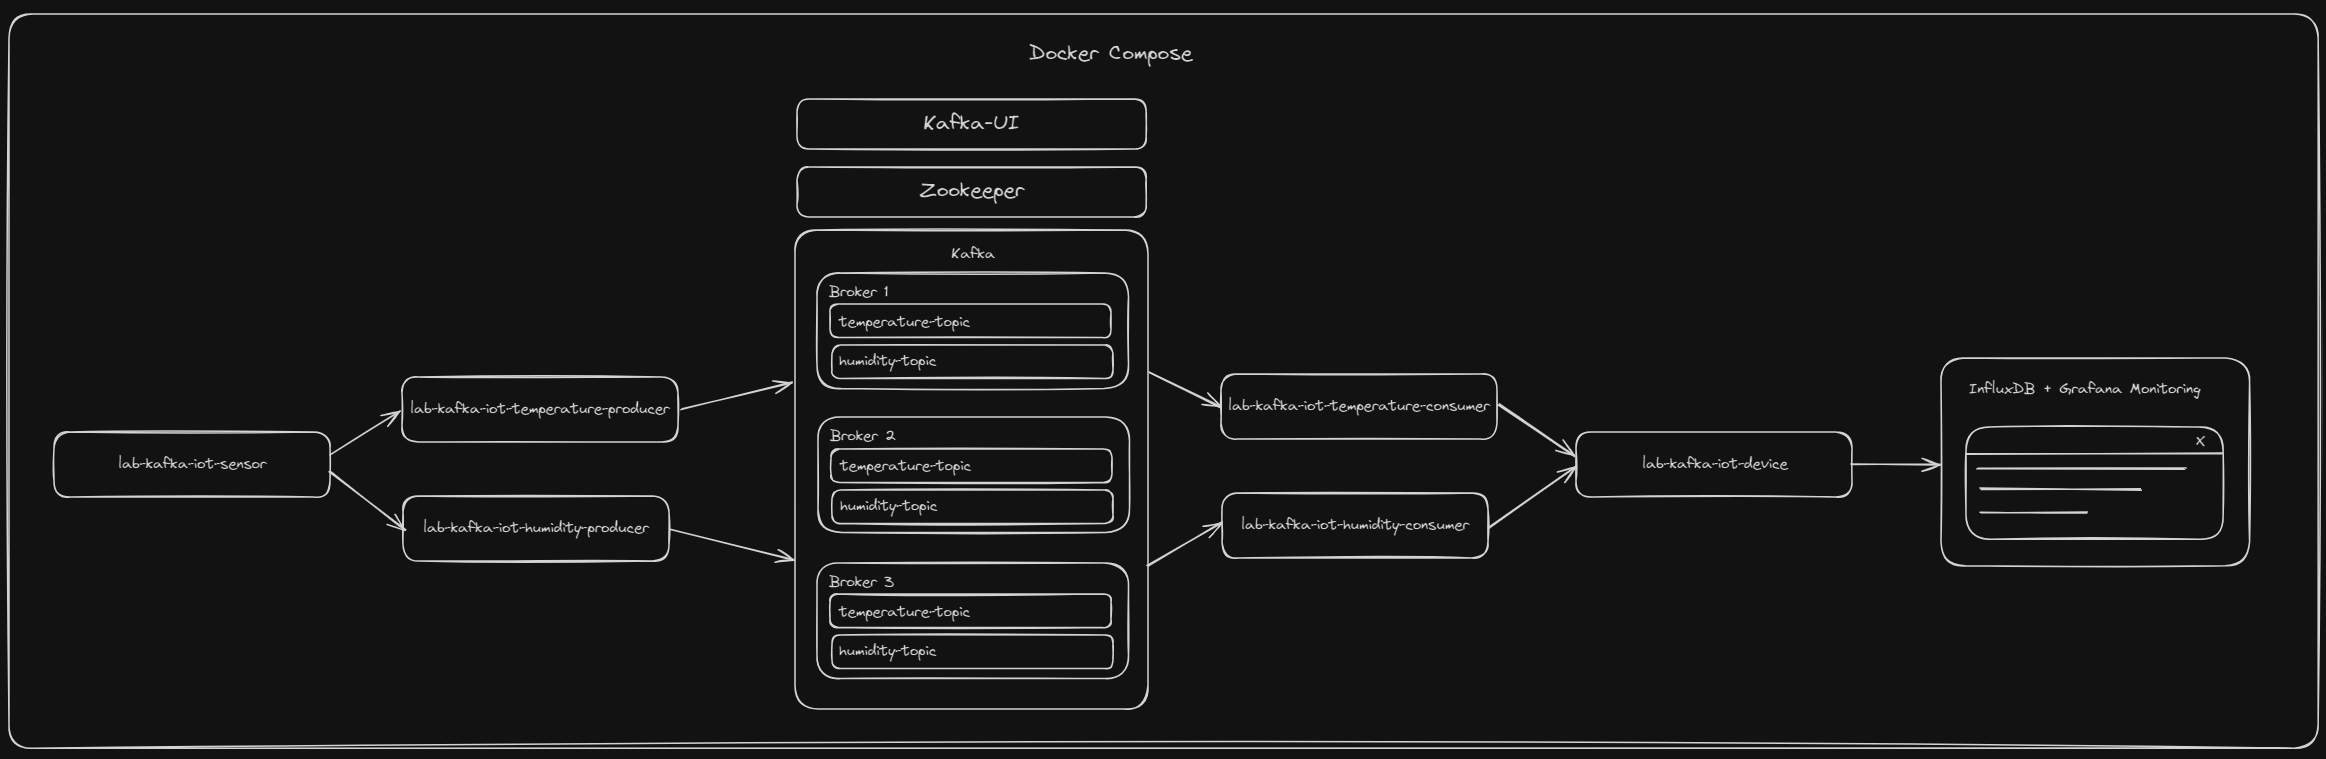
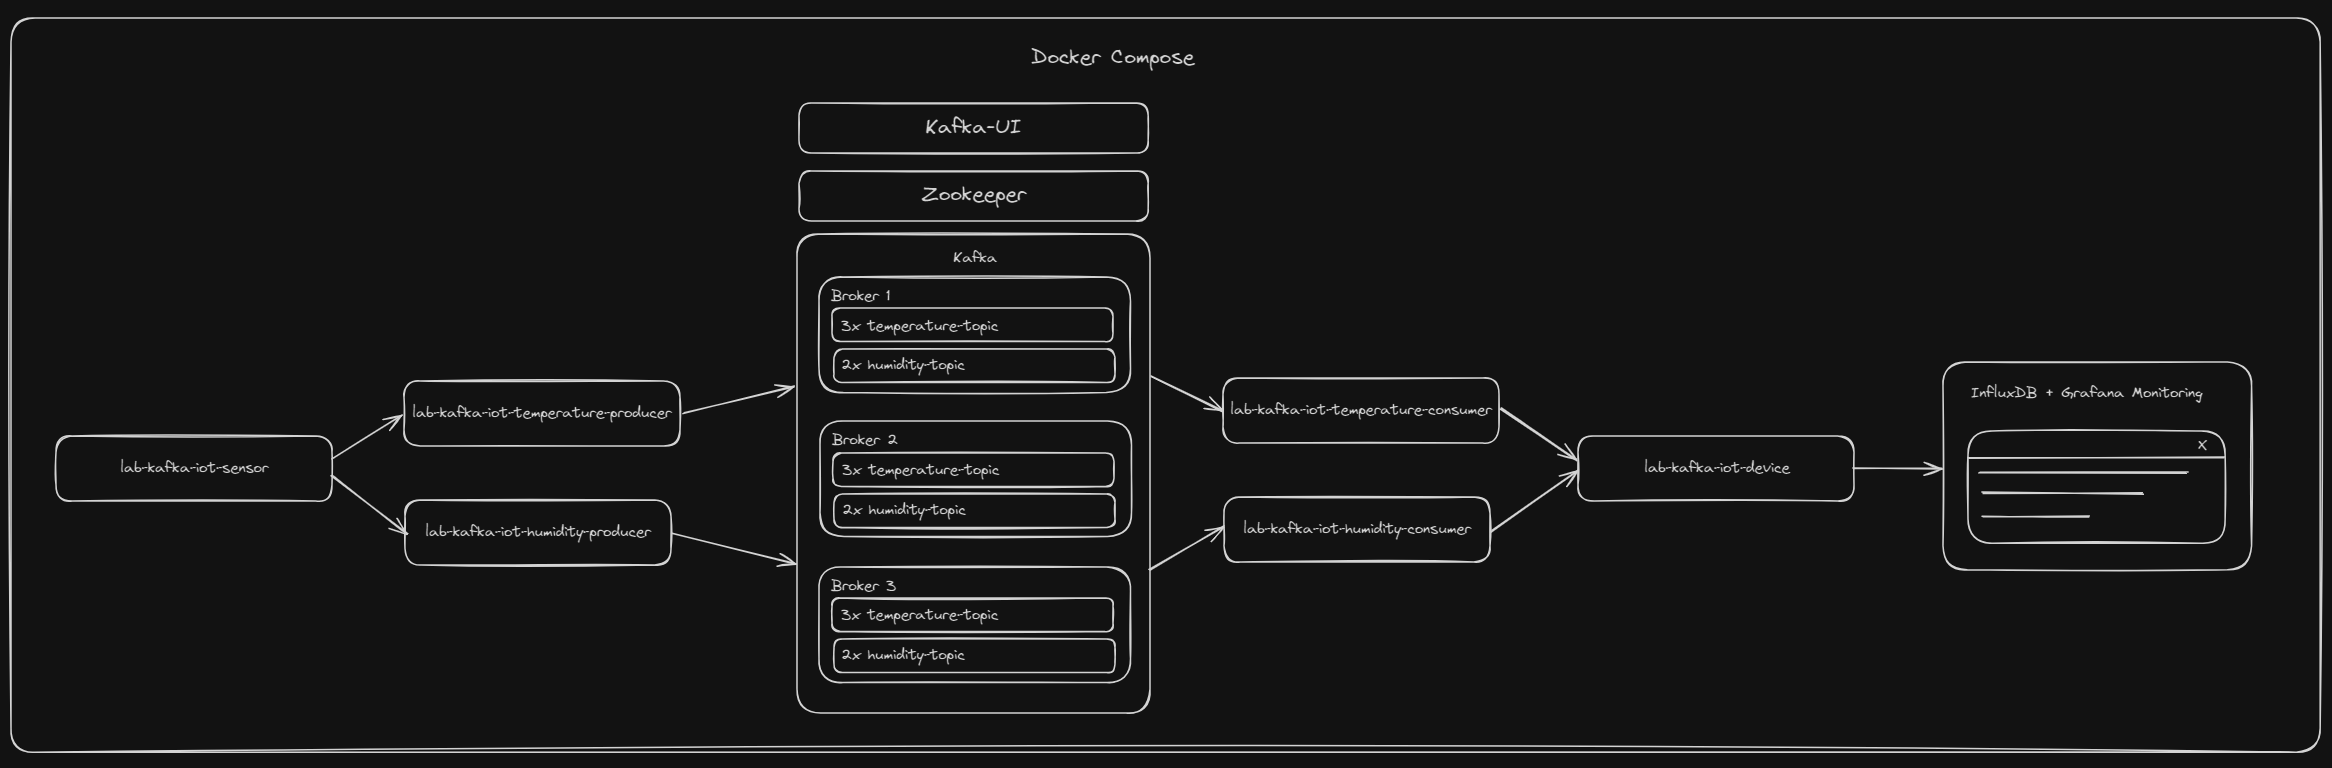
perf: increased number of topics and replicas

diff --git a/lab-kafka-iot-temperature-producer/src/main/java/com/lab/kafka/config/KafkaConfig.java b/lab-kafka-iot-temperature-producer/src/main/java/com/lab/kafka/config/KafkaConfig.java
@@ -10,6 +10,6 @@ public class KafkaConfig {
 
     @Bean
     KafkaAdmin.NewTopics topics() {
-        return new KafkaAdmin.NewTopics(TopicBuilder.name("temperature-topic").partitions(4).replicas(3).build());
+        return new KafkaAdmin.NewTopics(TopicBuilder.name("temperature-topic").partitions(3).replicas(3).build());
     }
 }

diff --git a/lab-kafka-iot-humidity-producer/src/main/java/com/lab/kafka/config/KafkaConfig.java b/lab-kafka-iot-humidity-producer/src/main/java/com/lab/kafka/config/KafkaConfig.java
@@ -10,6 +10,6 @@ public class KafkaConfig {
 
     @Bean
     KafkaAdmin.NewTopics topics() {
-        return new KafkaAdmin.NewTopics(TopicBuilder.name("humidity-topic").partitions(1).replicas(1).build());
+        return new KafkaAdmin.NewTopics(TopicBuilder.name("humidity-topic").partitions(2).replicas(3).build());
     }
 }
